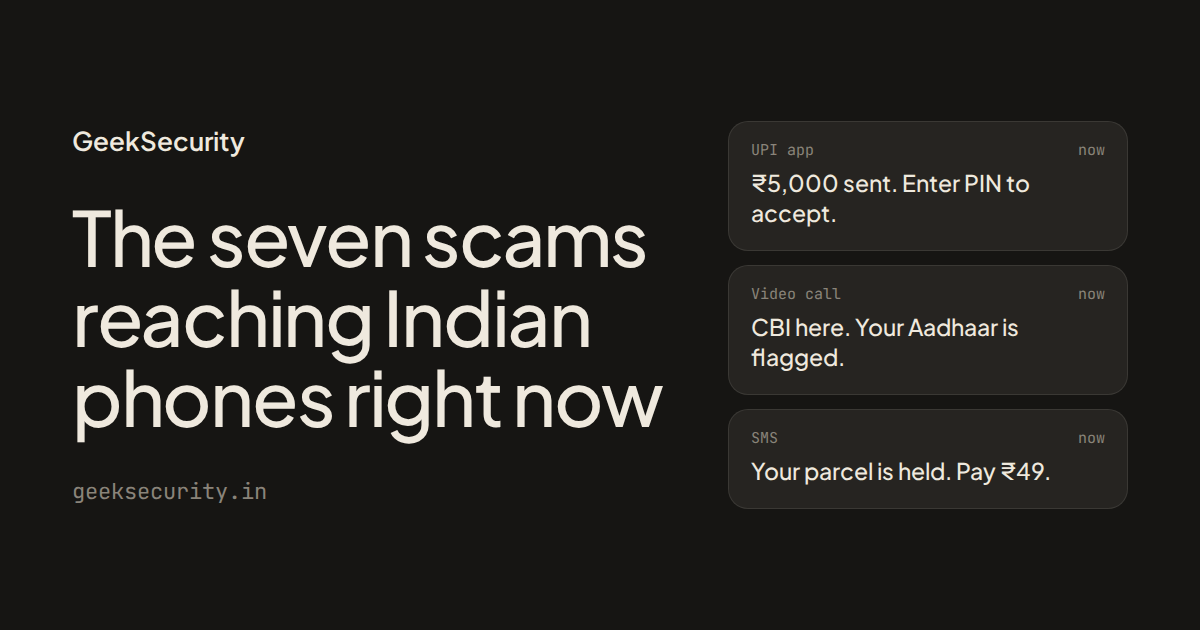
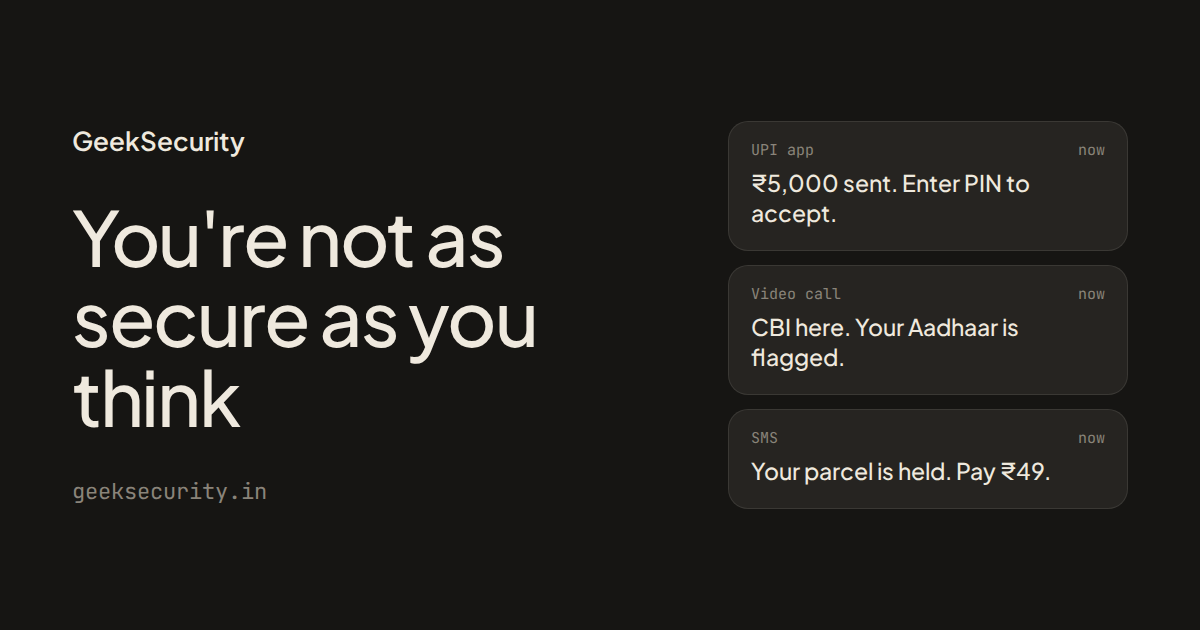
Restore the original headline; add GitHub link to the About section and footer

Changed region(s): [[0.0617, 0.4524, 0.555, 0.7238], [0.0617, 0.3317, 0.555, 0.4222]]

diff --git a/index.html b/index.html
@@ -3,14 +3,14 @@
 <head>
 <meta charset="utf-8">
 <meta name="viewport" content="width=device-width, initial-scale=1, viewport-fit=cover">
-<title>GeekSecurity: the seven scams reaching Indian phones right now</title>
+<title>GeekSecurity: you're not as secure as you think</title>
 <meta name="description" content="Naitik Gupta shows the exact message each scam starts with, the one rule that beats it, free tools to check yourself and what to do in the first hour after a cyber fraud.">
 <meta name="theme-color" content="#161513">
 <link rel="canonical" href="https://geeksecurity.in/">
 <meta property="og:type" content="website">
 <meta property="og:site_name" content="GeekSecurity">
 <meta property="og:url" content="https://geeksecurity.in/">
-<meta property="og:title" content="The seven scams reaching Indian phones right now">
+<meta property="og:title" content="GeekSecurity: you're not as secure as you think">
 <meta property="og:description" content="The message each scam starts with, the one rule that beats it, and free tools to check yourself.">
 <meta property="og:image" content="https://geeksecurity.in/assets/og.png">
 <meta property="og:image:width" content="1200">
@@ -25,7 +25,7 @@
 <script type="application/ld+json">
 {"@context":"https://schema.org","@graph":[
  {"@type":"WebSite","name":"GeekSecurity","url":"https://geeksecurity.in/","inLanguage":"en-IN"},
- {"@type":"Person","name":"Naitik Gupta","alternateName":"GeekSecurity","jobTitle":"AI Security Engineer & Educator","url":"https://geeksecurity.in/","image":"https://geeksecurity.in/assets/avatar.jpg","sameAs":["https://www.instagram.com/geeksecurity_/"]}
+ {"@type":"Person","name":"Naitik Gupta","alternateName":"GeekSecurity","jobTitle":"AI Security Engineer & Educator","url":"https://geeksecurity.in/","image":"https://geeksecurity.in/assets/avatar.jpg","sameAs":["https://www.instagram.com/geeksecurity_/","https://github.com/Naitik120gupta"]}
 ]}
 </script>
 </head>
@@ -58,8 +58,8 @@
 <section class="hero" id="top">
   <div class="wrap hero-grid">
     <div class="hero-copy">
-      <h1>The seven scams reaching Indian phones right now</h1>
-      <p class="lede">₹54 crore is lost to cyber fraud in India every day.<sup><a href="#src">1</a></sup> I'm Naitik. I show the exact message each scam starts with, and the one rule that beats it.</p>
+      <h1>You're not as secure as you think</h1>
+      <p class="lede">₹54 crore is lost to cyber fraud in India every day.<sup><a href="#src">1</a></sup> I'm Naitik. I show the exact message each of the seven scams reaching Indian phones starts with, and the one rule that beats it.</p>
       <div class="cta-row">
         <a class="btn btn-lg btn-primary" href="https://www.instagram.com/geeksecurity_/" target="_blank" rel="noopener">Follow @geeksecurity_</a>
         <a class="btn btn-lg" href="#resources">Free resources</a>
@@ -149,7 +149,7 @@
         <a class="btn btn-primary" href="https://www.instagram.com/geeksecurity_/" target="_blank" rel="noopener">Follow on Instagram</a>
         <a class="btn" href="https://ig.me/m/geeksecurity_" target="_blank" rel="noopener">Send a DM</a>
       </div>
-      <p class="contact">Collabs: <a href="mailto:geekscrty@gmail.com">geekscrty@gmail.com</a></p>
+      <p class="contact">Collabs: <a href="mailto:geekscrty@gmail.com">geekscrty@gmail.com</a> · Code: <a href="https://github.com/Naitik120gupta" target="_blank" rel="noopener me">github.com/Naitik120gupta</a></p>
     </div>
   </div>
 </section>
@@ -158,10 +158,9 @@
 <footer class="foot">
   <div class="wrap">
     <p class="foot-brand">GeekSecurity</p>
-    <p>You're not as secure as you think.</p>
     <p id="src"><sup>1</sup> ₹19,813 crore reported lost to cyber fraud in 2025, National Cyber Crime Reporting Portal (I4C) data, about ₹54 crore a day.</p>
     <p>For education only. GeekSecurity is independent and not affiliated with any government body, bank or company named here. In an emergency call 1930.</p>
-    <p class="foot-row"><span>© <span id="year">2026</span> Naitik Gupta</span><a href="https://www.instagram.com/geeksecurity_/" target="_blank" rel="noopener">Instagram</a><a href="mailto:geekscrty@gmail.com">Email</a><a href="#top">Back to top</a></p>
+    <p class="foot-row"><span>© <span id="year">2026</span> Naitik Gupta</span><a href="https://www.instagram.com/geeksecurity_/" target="_blank" rel="noopener">Instagram</a><a href="https://github.com/Naitik120gupta" target="_blank" rel="noopener me">GitHub</a><a href="mailto:geekscrty@gmail.com">Email</a><a href="#top">Back to top</a></p>
   </div>
 </footer>
 
